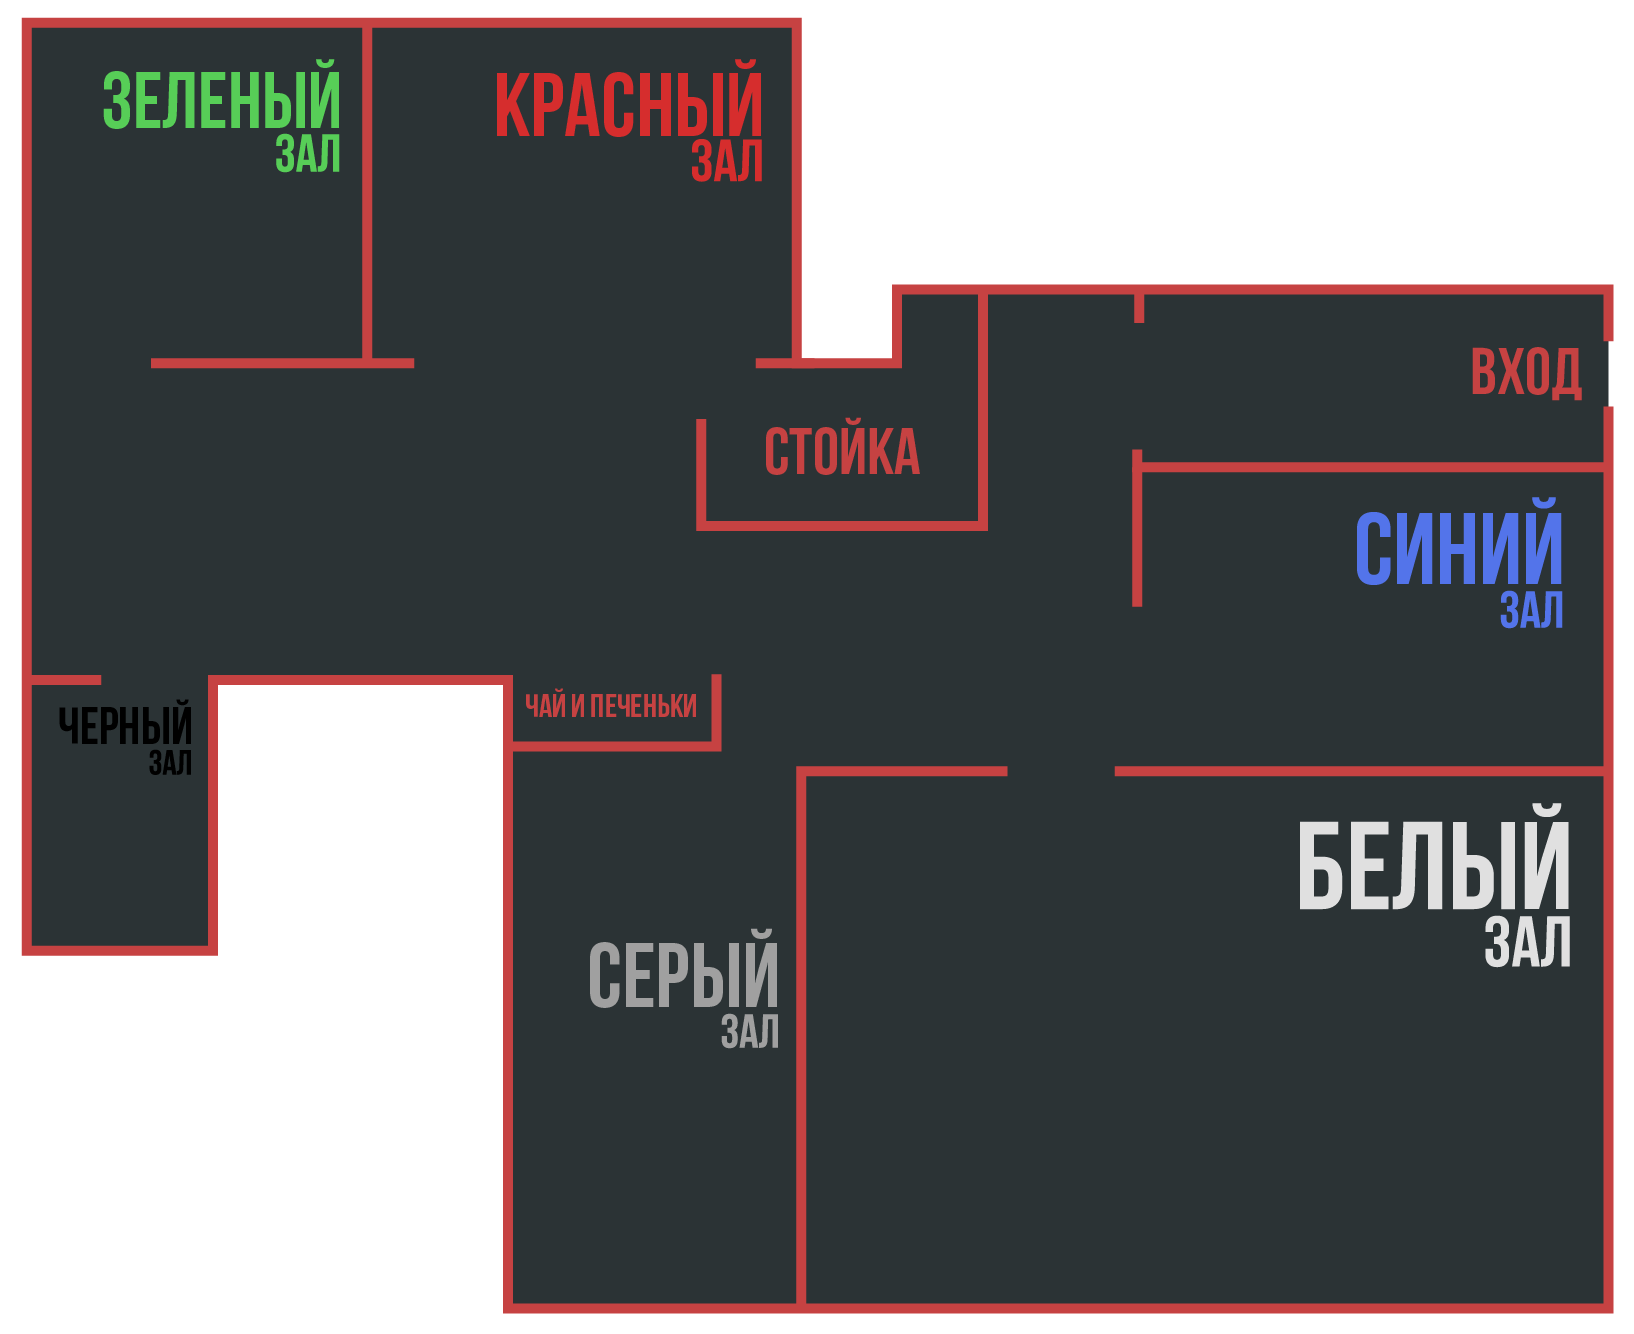
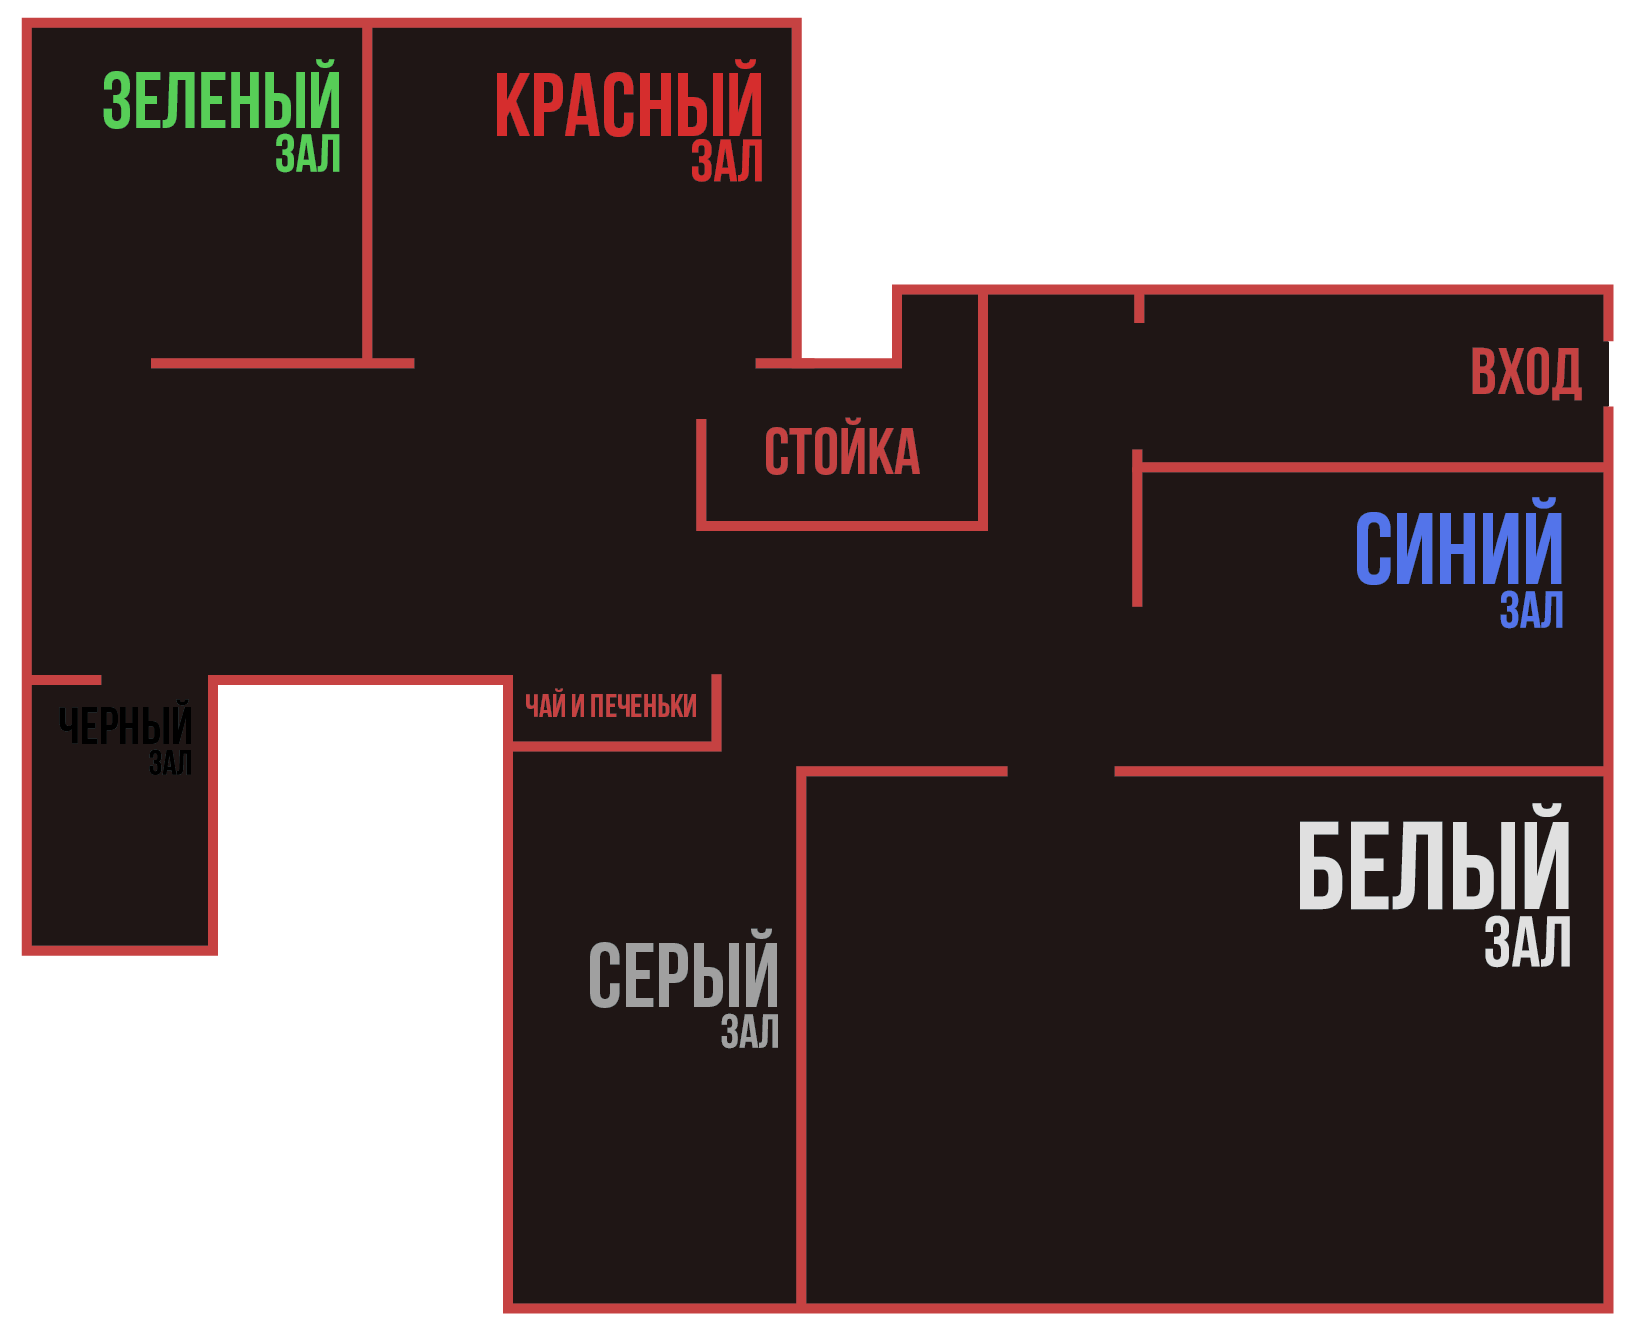
Mechta Tut: pull prices and announcements from an admin service
Vasiliy can now edit hall prices, the drop-in tariff and club news
himself: a small stdlib service on our projects box serves the content
as JSON and the page picks it up on load. If the service is unreachable
the page silently keeps the values baked into the markup, so a dead
backend can never blank out the site.

Alongside it:
- the floor plan stops being a beige card — the artwork was already
  dark, it was the paper-coloured backdrop under multiply that made it
  look pasted on; fills recoloured to the site's warm tone;
- the die grows to 104px (it is the page's main toy) with translateZ
  kept at half the edge, and its caption drops the games count so it
  can't drift from the list again;
- 16 unused JPG duplicates leave the repo (only WebP is served) —
  originals stay local under an ignored raw/ folder, tracked assets
  drop from 28 to 21 MB.

diff --git a/public/mechta-tut/index.html b/public/mechta-tut/index.html
@@ -457,9 +457,9 @@ body.locked{overflow:hidden;}
   background:rgba(12,8,8,.58);border:1px solid var(--line);border-radius:20px;max-width:620px;
   backdrop-filter:blur(6px);
 }
-.dice-hold{perspective:640px;width:104px;height:104px;display:grid;place-items:center;flex:none;}
+.dice-hold{perspective:760px;width:128px;height:128px;display:grid;place-items:center;flex:none;}
 .dice{
-  width:84px;height:84px;position:relative;transform-style:preserve-3d;background:none;border:0;padding:0;cursor:pointer;
+  width:104px;height:104px;position:relative;transform-style:preserve-3d;background:none;border:0;padding:0;cursor:pointer;
   transform:rotateX(-18deg) rotateY(22deg);transition:transform 620ms cubic-bezier(.2,.82,.2,1);
 }
 .dice.is-instant{transition:none;}
@@ -472,9 +472,9 @@ body.locked{overflow:hidden;}
 }
 .dice .pip{width:12px;height:12px;border-radius:50%;background:#2B1F16;place-self:center;
   box-shadow:inset 0 1.5px 2px rgba(0,0,0,.55);}
-.s1{transform:translateZ(42px);} .s6{transform:rotateY(180deg) translateZ(42px);}
-.s2{transform:rotateY(90deg) translateZ(42px);} .s5{transform:rotateY(-90deg) translateZ(42px);}
-.s3{transform:rotateX(90deg) translateZ(42px);} .s4{transform:rotateX(-90deg) translateZ(42px);}
+.s1{transform:translateZ(52px);} .s6{transform:rotateY(180deg) translateZ(52px);}
+.s2{transform:rotateY(90deg) translateZ(52px);} .s5{transform:rotateY(-90deg) translateZ(52px);}
+.s3{transform:rotateX(90deg) translateZ(52px);} .s4{transform:rotateX(-90deg) translateZ(52px);}
 .dice-out{flex:1 1 190px;min-width:0;}
 .dice-out .q{font-size:13px;color:var(--sage-dim);}
 .dice-out .pick{font-family:var(--display);font-weight:700;font-size:21px;color:#FAF7F3;margin-top:2px;letter-spacing:-.02em;}
@@ -591,9 +591,9 @@ section{padding:56px 0;}
 
 /* полная аренда — отдельный формат, а не седьмой зал */
 .whole-rental{display:grid;gap:0;margin-top:26px;overflow:hidden;border:1px solid rgba(221,94,78,.38);border-radius:24px;background:linear-gradient(145deg,rgba(221,94,78,.18),rgba(22,16,16,.96));}
-.whole-plan{position:relative;min-height:300px;background:#BBA897;overflow:hidden;}
+.whole-plan{position:relative;min-height:300px;background:#14100F;overflow:hidden;}
 .whole-plan::after{content:"схема пространства";position:absolute;left:18px;bottom:16px;padding:6px 9px;border-radius:999px;background:rgba(12,8,8,.7);font-family:var(--mono);font-size:9px;letter-spacing:.1em;text-transform:uppercase;color:var(--lamp);}
-.whole-plan img{width:100%;height:100%;object-fit:contain;padding:12px;mix-blend-mode:multiply;filter:saturate(.76) contrast(.94);opacity:.92;}
+.whole-plan img{width:100%;height:100%;object-fit:contain;padding:12px;opacity:.96;}
 .whole-copy{padding:28px;}
 .whole-copy h3{margin-top:12px;font-size:clamp(24px,4vw,34px);}
 .whole-copy > p{margin-top:14px;color:var(--sage);font-size:14px;}
@@ -1346,7 +1346,7 @@ footer::before{left:auto;right:-11%;bottom:-245px;width:540px;height:430px;borde
         <div class="dice-out" role="status" aria-live="polite" aria-atomic="true">
           <p class="q">Не знаете, во что играть?</p>
           <p class="pick" id="pick">Бросьте кубик</p>
-          <p class="meta" id="meta">Восемнадцать вариантов — кубик подскажет один</p>
+          <p class="meta" id="meta">Не выбирается — бросьте, он подскажет</p>
         </div>
       </div>
 
@@ -2463,30 +2463,26 @@ footer::before{left:auto;right:-11%;bottom:-245px;width:540px;height:430px;borde
     motionReveals.forEach(function(element){ element.classList.add("is-visible"); });
   }
 
-  /* Анонсы — заготовка под будущую админку Василия. Пока просто JSON-файл рядом с index.html:
-     каждая запись { "date":"Сентябрь 2026", "title":"...", "text":"...", "image":"img/covers/....webp" } —
-     image необязателен. Пустой массив [] держит секцию скрытой, чтобы не показывать дыру до реального контента. */
+  /* Анонсы теперь приходят из ответа админки mechta-admin (см. блок MECHTA ниже), а не
+     из локального announcements.json — Василий редактирует их через /mechta/admin на
+     сервере, файл рядом с index.html больше не читается, но оставлен на диске как есть.
+     Пустой массив [] держит секцию скрытой, чтобы не показывать дыру до реального контента. */
   var announceGrid = document.getElementById("announceGrid");
   var announceSection = document.getElementById("announcements");
-  if (announceGrid && announceSection) {
-    fetch("announcements.json").then(function(r){ return r.ok ? r.json() : []; }).then(function(items){
-      if (!Array.isArray(items) || !items.length) return;
-      items.forEach(function(it){
-        var card = document.createElement("article");
-        card.className = "room";
-        if (it.image) {
-          var img = document.createElement("img");
-          img.src = it.image; img.alt = ""; img.loading = "lazy";
-          card.appendChild(img);
-        }
-        var tag = document.createElement("p"); tag.className = "tag"; tag.textContent = it.date || "";
-        var h3 = document.createElement("h3"); h3.textContent = it.title || "";
-        var p = document.createElement("p"); p.textContent = it.text || "";
-        card.appendChild(tag); card.appendChild(h3); card.appendChild(p);
-        announceGrid.appendChild(card);
-      });
-      announceSection.style.display = "";
-    }).catch(function(){});
+  function renderAnnouncements(items) {
+    if (!announceGrid || !announceSection) return;
+    if (!Array.isArray(items) || !items.length) return;
+    announceGrid.innerHTML = "";
+    items.forEach(function(it){
+      var card = document.createElement("article");
+      card.className = "room";
+      var tag = document.createElement("p"); tag.className = "tag"; tag.textContent = it.date || "";
+      var h3 = document.createElement("h3"); h3.textContent = it.title || "";
+      var p = document.createElement("p"); p.textContent = it.text || "";
+      card.appendChild(tag); card.appendChild(h3); card.appendChild(p);
+      announceGrid.appendChild(card);
+    });
+    announceSection.style.display = "";
   }
 
   /* Поля собираются только в браузере. Подтверждённый Telegram для брони пока не получен:
@@ -2531,6 +2527,55 @@ footer::before{left:auto;right:-11%;bottom:-245px;width:540px;height:430px;borde
         submitButton.textContent = "Подготовить заявку";
         submitButton.classList.remove("is-sent");
       }, 2200);
+    });
+  }
+
+  /* Админка Василия (сервис mechta-admin на нашем сервере, /mechta/admin) — сайт статический
+     на GH Pages, поэтому свежие цены и анонсы запрашиваются у сервера при каждой загрузке.
+     Фолбэк обязателен: сервер не ответил / ответ не 200 / JSON невалиден — страница остаётся
+     со значениями, зашитыми в разметку выше, никакой надписи «загрузка» и подмены контента
+     после первого рендера. Ошибки уходят только в консоль, пользователь их не видит. */
+  var MECHTA_API_URL = "https://backend-test.45-82-95-142.nip.io:8443/mechta/api/content";
+
+  function mtFormatThousands(n) {
+    return Math.round(n).toString().replace(/\B(?=(\d{3})+(?!\d))/g, " ");
+  }
+
+  /* Меняет только ведущий текстовый узел перед вложенным <small> — сама подпись
+     («в час за весь зал», «в минуту» и т.п.) в разметке не трогается. */
+  function mtSetLeadingPrice(el, price) {
+    if (!el || !el.firstChild || el.firstChild.nodeType !== Node.TEXT_NODE) return;
+    el.firstChild.nodeValue = mtFormatThousands(price) + " ₽ ";
+  }
+
+  function mtApplyHallPrice(id, price) {
+    var tabSmall = document.querySelector("#hall-tab-" + id + " small");
+    if (tabSmall) tabSmall.textContent = mtFormatThousands(price) + " ₽/час";
+    mtSetLeadingPrice(document.querySelector("#hall-" + id + " .hall-price"), price);
+  }
+
+  function mtApplyContent(data) {
+    if (!data || !Array.isArray(data.halls) || !data.free || !Array.isArray(data.announcements)) return;
+    data.halls.forEach(function(hall){
+      if (hall && typeof hall.id === "string" && typeof hall.pricePerHour === "number") {
+        mtApplyHallPrice(hall.id, hall.pricePerHour);
+      }
+    });
+    if (typeof data.free.pricePerMinute === "number") {
+      mtSetLeadingPrice(document.querySelector("#free .free-tariff.primary .price"), data.free.pricePerMinute);
+    }
+    if (typeof data.free.dayCap === "number") {
+      mtSetLeadingPrice(document.querySelector("#free .free-tariff.stop .price"), data.free.dayCap);
+    }
+    renderAnnouncements(data.announcements);
+  }
+
+  if (window.fetch) {
+    fetch(MECHTA_API_URL, {cache: "no-store"}).then(function(r){
+      if (!r.ok) throw new Error("mechta content: bad status " + r.status);
+      return r.json();
+    }).then(mtApplyContent).catch(function(err){
+      console.error("mechta content fetch failed", err);
     });
   }
 })();
